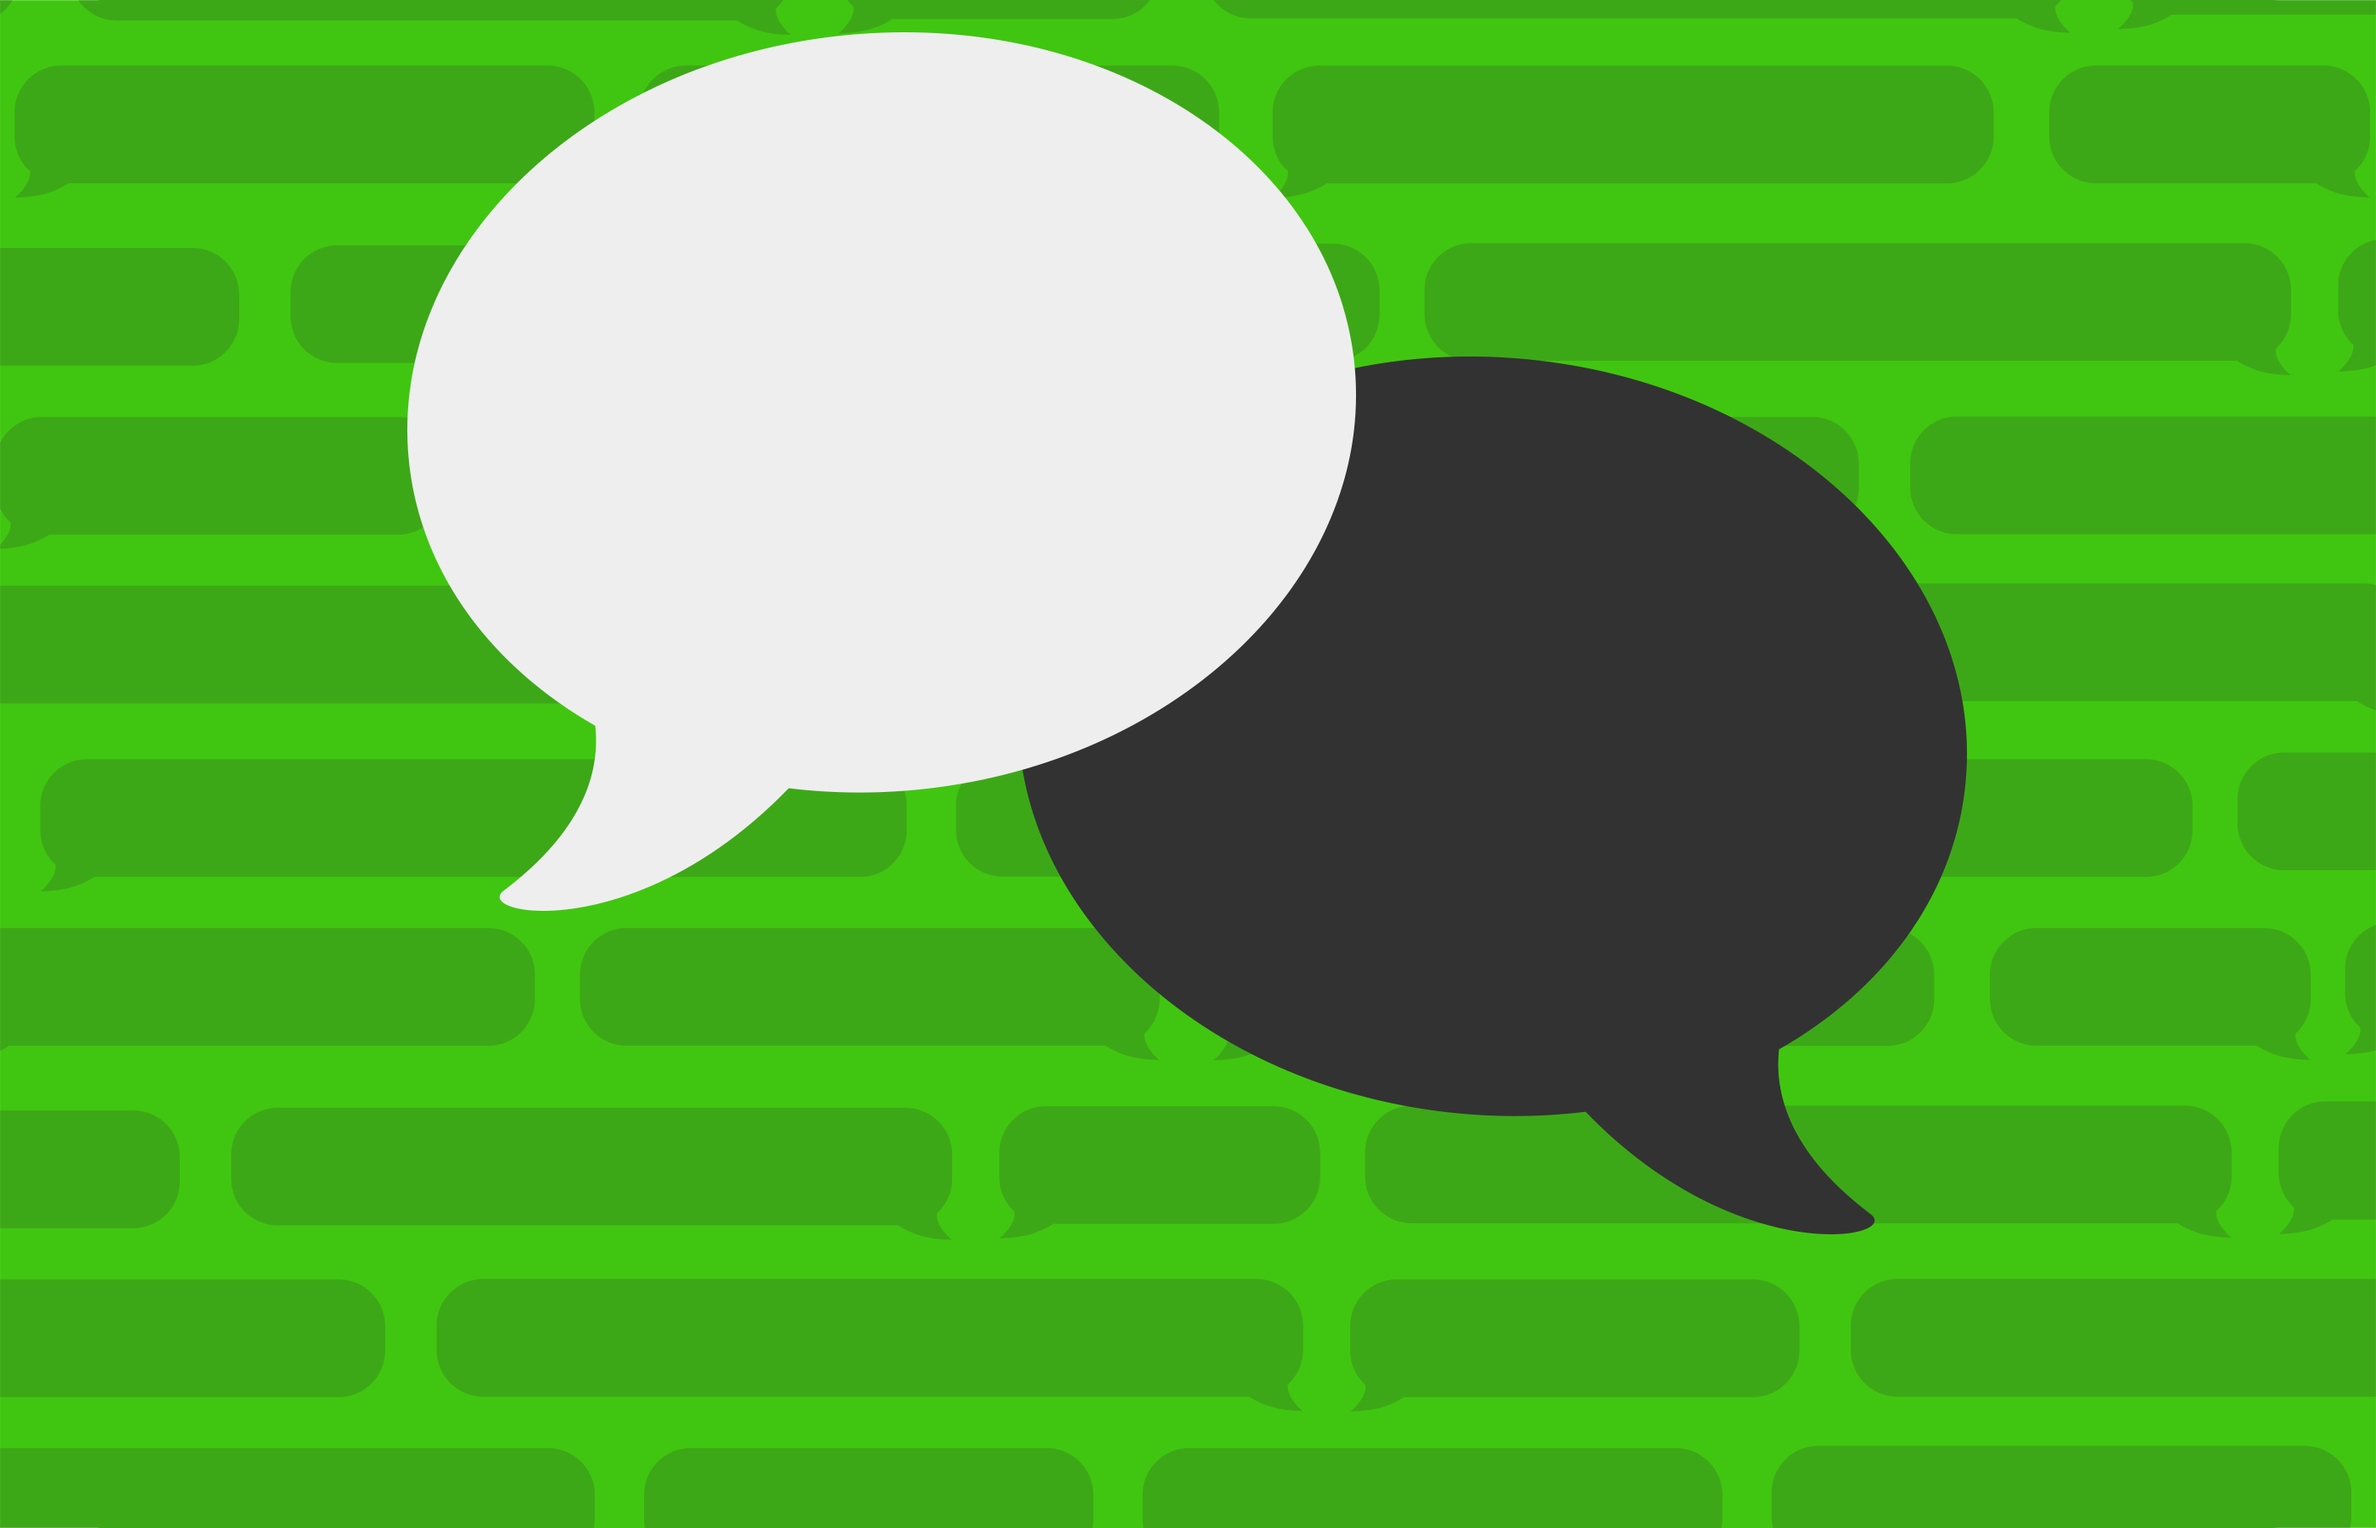
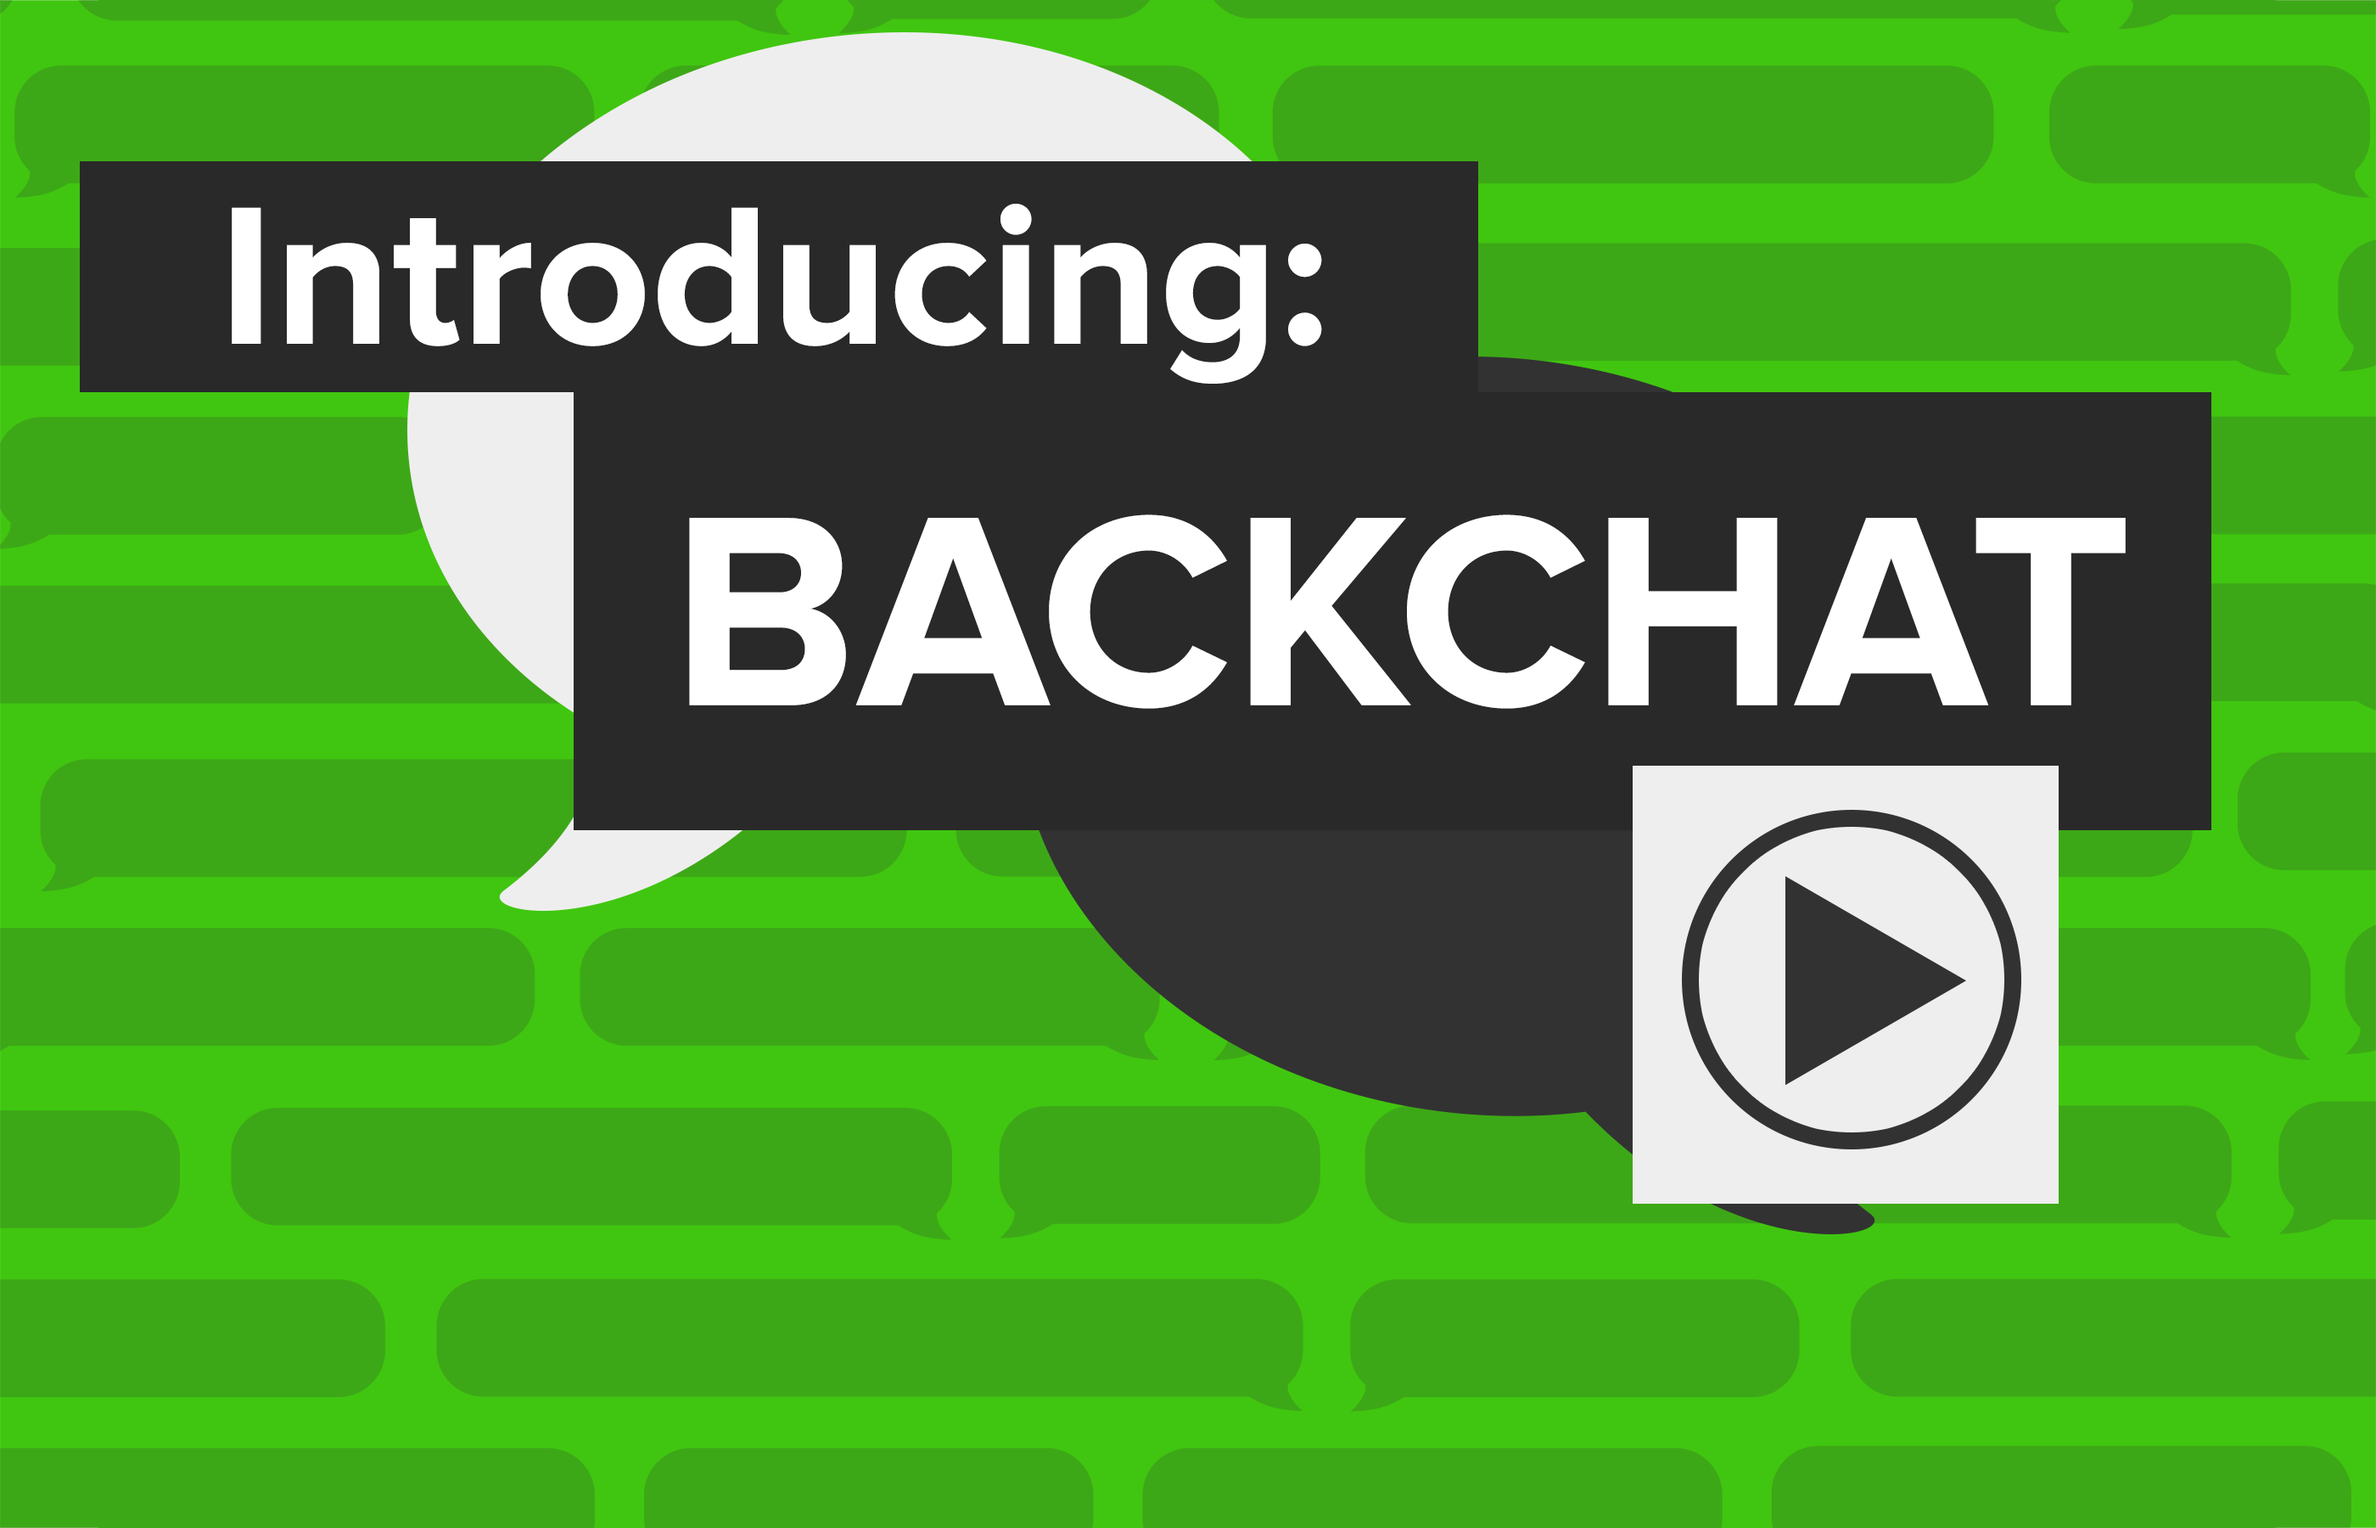
Change intro to image

Changed region(s): [[0.0311, 0.0933, 0.9321, 0.8089]]

diff --git a/public/css/home.css b/public/css/home.css
@@ -22,11 +22,6 @@
 
 body {
   color: white;
-  background: url('../img/bg.png') no-repeat center center fixed;
-  -webkit-background-size: cover;
-  -moz-background-size: cover;
-  -o-background-size: cover;
-  background-size: cover;
 }
 
 * {
@@ -38,6 +33,11 @@ html, body {
 }
 
 #content {
+  background: url('../img/bg.png') no-repeat center center fixed;
+  -webkit-background-size: cover;
+  -moz-background-size: cover;
+  -o-background-size: cover;
+  background-size: cover;
   min-height: 100%;
   margin-bottom: -50px;
 }
@@ -62,22 +62,4 @@ html, body {
   color: white;
   text-decoration: none;
   margin: 0 1% 0 1%;
-}
-
-#bar-1, #bar-2 {
-  font-family: 'proxima_nova_rgbold', sans-serif;
-  background-color: #292929;
-  padding: 10px;
-}
-
-#bar-1 {
-  width: 450px;
-  margin-left: 200px;
-  font-size: 4.5em;
-}
-
-#bar-2 {
-  width: 550px;
-  margin-left: 25%;
-  font-size: 6em;
 }

diff --git a/public/index.html b/public/index.html
@@ -5,10 +5,7 @@
   </head>
 
   <body>
-    <div id='content'>
-      <h2 id='bar-1'>Introducing:</h2>
-      <h2 id='bar-2'>BACKCHAT</h2>
-    </div>
+    <div id='content'></div>
 
     <footer id='footer'>
       <a href=''>DOWNLOAD</a>
